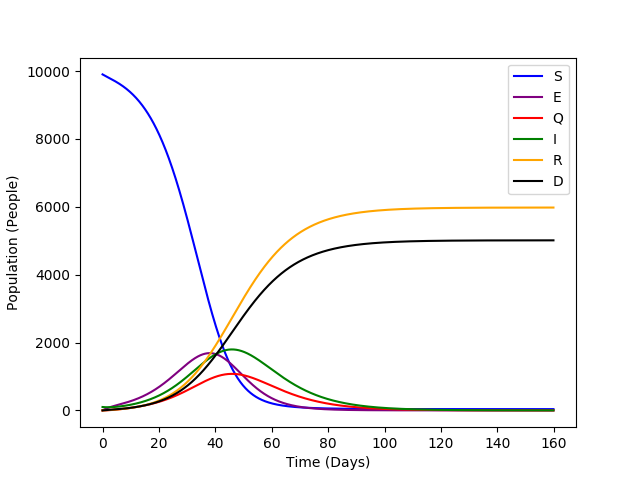
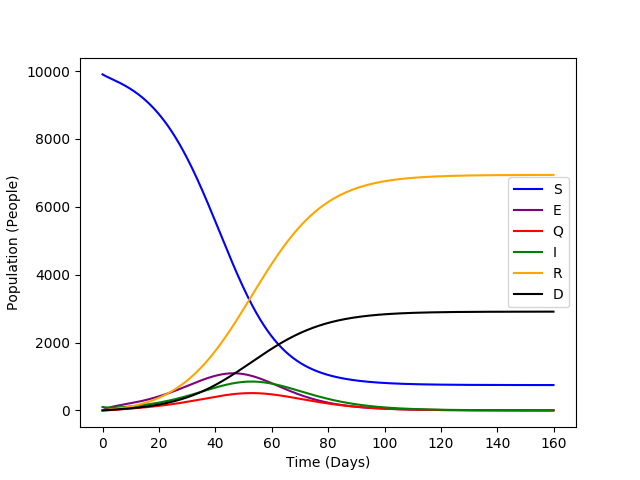
changing variables

diff --git a/hrenard_program3.py b/hrenard_program3.py
@@ -4,7 +4,7 @@ import matplotlib.pyplot as plt
 import numpy as np
 
 def runsim(
-	mean_infectious_duration = 20, 	         		# day
+	mean_infectious_duration = 10, 	         		# day
 	transmissibility = .6,                         		# infection / contact
 	contact_factor = .8,                          		# (contact / day) / person
 	mean_incubation = 9,                               	# day
